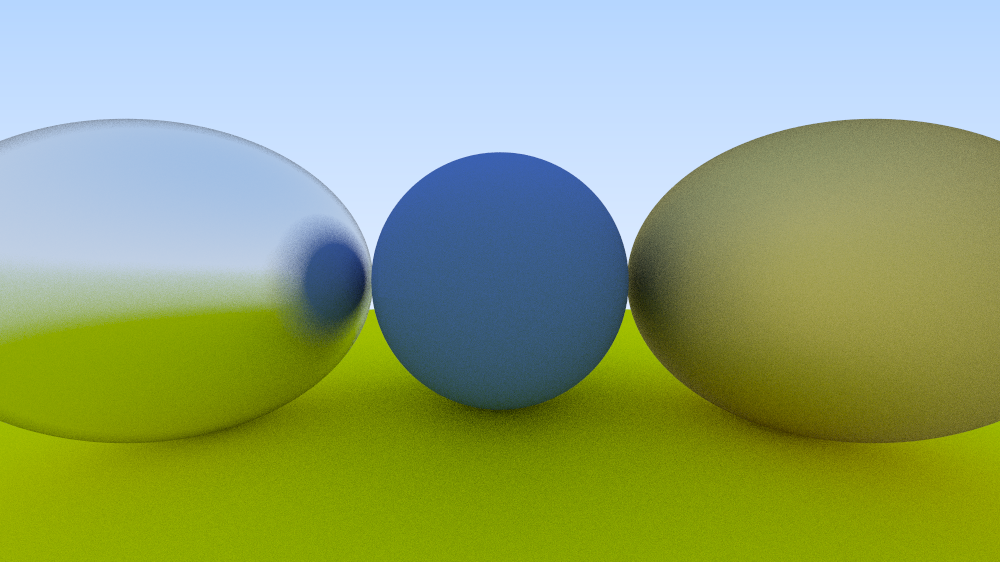
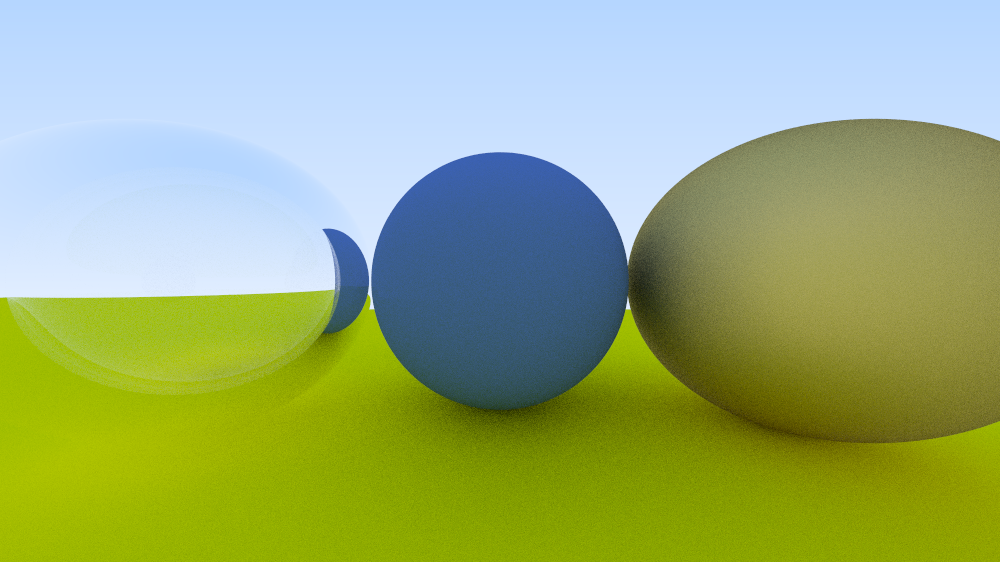
add diaelectric material

Changed region(s): [[0.0, 0.2117, 0.465, 0.9075]]

diff --git a/internal/lumen/material/dielectric.go b/internal/lumen/material/dielectric.go
@@ -1,0 +1,46 @@
+package material
+
+import (
+	"math"
+	"math/rand/v2"
+
+	"github.com/jamrig/lumen/internal/lumen/maths"
+)
+
+type DielectricMaterial struct {
+	RefractionIndex float64
+}
+
+func NewDielectricMaterial(refractionIndex float64) DielectricMaterial {
+	return DielectricMaterial{
+		RefractionIndex: refractionIndex,
+	}
+}
+
+func (m DielectricMaterial) Scatter(hit *maths.Intersection) *maths.ScatteredRay {
+	ri := m.RefractionIndex
+	attentuate := maths.NewColor(1.0, 1.0, 1.0)
+
+	if hit.FrontFace {
+		ri = 1 / ri
+	}
+
+	unit := hit.Ray.Direction.Unit()
+	cosTheta := math.Min(unit.Mul(-1).Dot(hit.Normal), 1)
+	sinTheta := math.Sqrt(1 - cosTheta*cosTheta)
+
+	if ri*sinTheta > 1 || m.Reflectance(cosTheta, ri) > rand.Float64() {
+		r := maths.NewScatteredRay(maths.NewRay(hit.Point, unit.Reflect(hit.Normal)), attentuate)
+		return &r
+	}
+
+	r := maths.NewScatteredRay(maths.NewRay(hit.Point, unit.Refract(hit.Normal, ri)), attentuate)
+
+	return &r
+}
+
+func (m DielectricMaterial) Reflectance(cos float64, refractionIndex float64) float64 {
+	r0 := (1 - refractionIndex) / (1 + refractionIndex)
+	r0 *= r0
+	return r0 + (1-r0)*math.Pow(1-cos, 5)
+}

diff --git a/internal/lumen/maths/intersection.go b/internal/lumen/maths/intersection.go
@@ -1,10 +1,11 @@
 package maths
 
 type Intersection struct {
-	Ray    Ray
-	Point  Vec3
-	T      float64
-	Normal Vec3
+	Ray       Ray
+	Point     Vec3
+	T         float64
+	Normal    Vec3
+	FrontFace bool
 }
 
 func NewIntersection(r Ray, p Vec3, t float64, n Vec3) Intersection {
@@ -15,7 +16,9 @@ func NewIntersection(r Ray, p Vec3, t float64, n Vec3) Intersection {
 		Normal: n,
 	}
 
-	if r.Direction.Dot(n) > 0 {
+	intersection.FrontFace = r.Direction.Dot(n) < 0
+
+	if !intersection.FrontFace {
 		intersection.Normal = intersection.Normal.Mul(-1.0)
 	}
 

diff --git a/cmd/main.go b/cmd/main.go
@@ -19,7 +19,7 @@ func main() {
 	// materials
 	materialGround := material.NewLambertianMaterial(maths.NewColor(0.8, 0.8, 0.0))
 	materialCenter := material.NewLambertianMaterial(maths.NewColor(0.1, 0.2, 0.5))
-	materialLeft := material.NewMetalMaterial(maths.NewColor(0.8, 0.8, 0.8), 0.3)
+	materialLeft := material.NewDielectricMaterial(1.00 / 1.33)
 	materialRight := material.NewMetalMaterial(maths.NewColor(0.8, 0.6, 0.2), 1.0)
 
 	// scene

diff --git a/internal/lumen/maths/vec3.go b/internal/lumen/maths/vec3.go
@@ -105,3 +105,10 @@ func (v Vec3) NearZero() bool {
 func (v Vec3) Reflect(n Vec3) Vec3 {
 	return v.Sub(n.Mul(2 * v.Dot(n)))
 }
+
+func (v Vec3) Refract(n Vec3, refractionIndex float64) Vec3 {
+	cosTheta := math.Min(v.Mul(-1).Dot(n), 1)
+	rOutPerp := v.Add(n.Mul(cosTheta)).Mul(refractionIndex)
+	rOutParallel := n.Mul(-math.Sqrt(math.Abs(1 - rOutPerp.LengthSquared())))
+	return rOutPerp.Add(rOutParallel)
+}
